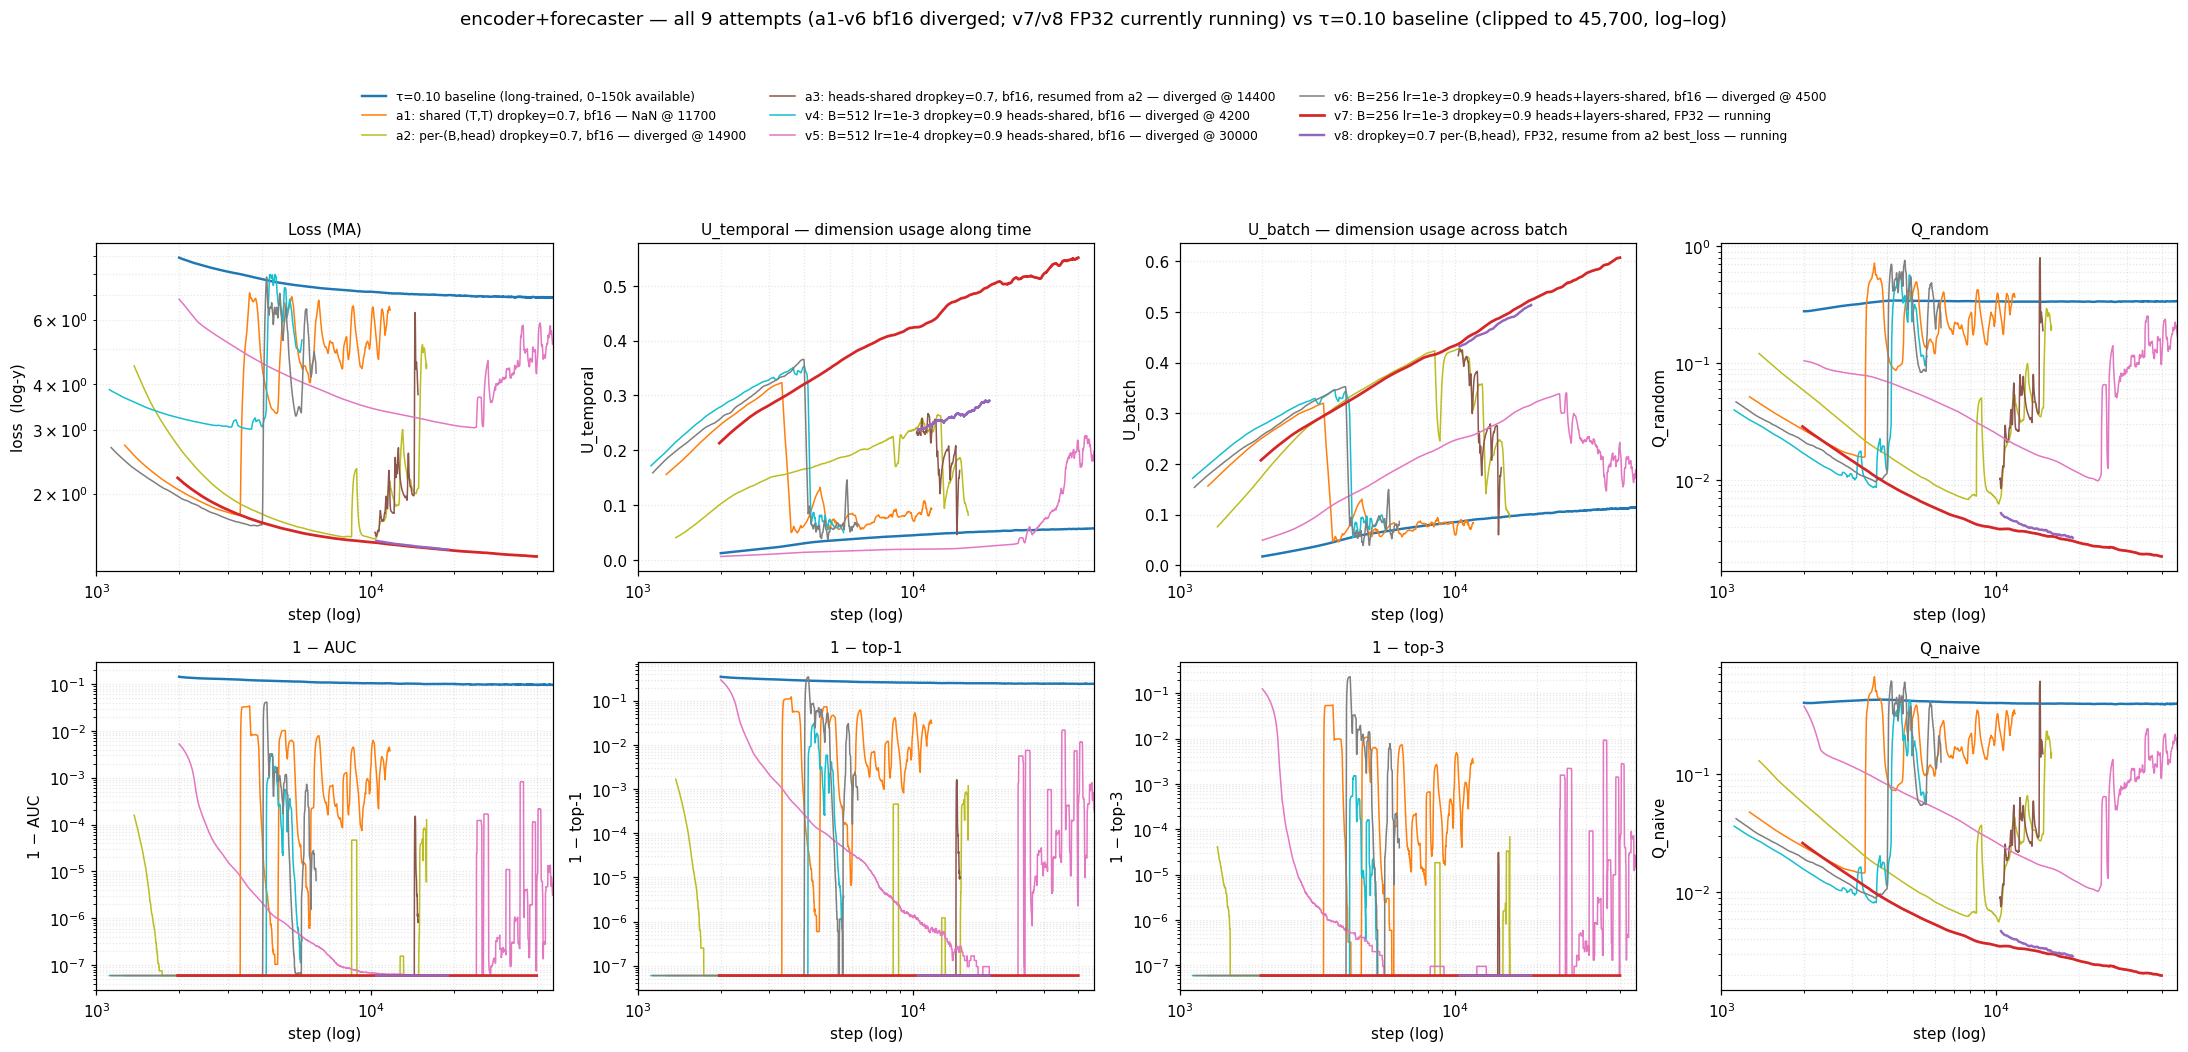
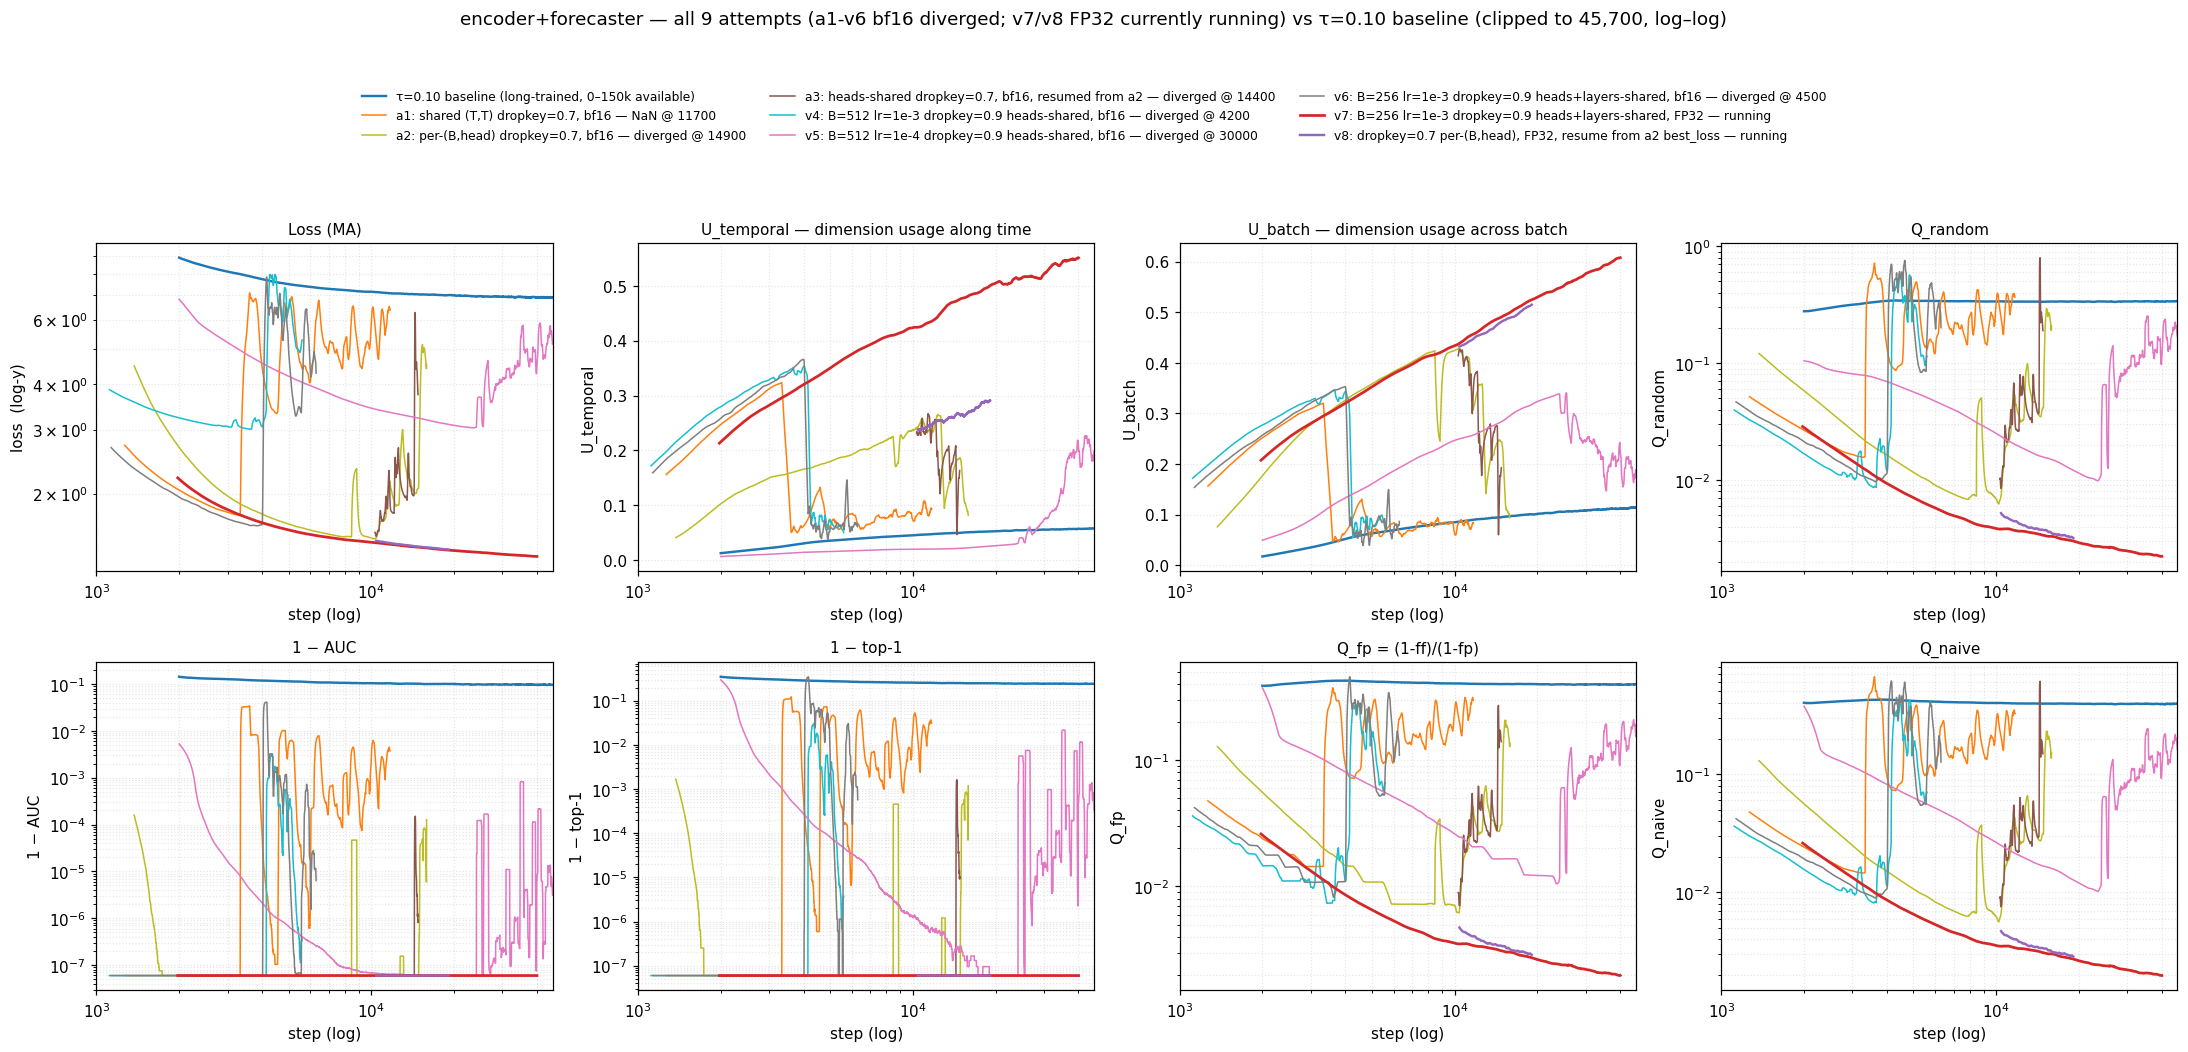
plot: add Q_fp = (1-ff)/(1-fp) panel (replaces 1-top3)
Q_fp is the ratio of (forecast→future error) over (forecast→past error).
Lower = forecast beats the past baseline by a larger margin. v7/v8 sit
near 0.002–0.003 (very strong gap); diverged bf16 arms hover at 0.06–0.31.

top3 dropped from the panel grid — highly correlated with top1 and missing
from baseline CSV anyway. Q_fp is novel info.

key Q_fp values (last_window_mean):
  baseline τ=0.10: 0.397
  a1: 0.310  a2: 0.140  a3: 0.151
  v4: 0.062  v5: 0.146  v6: 0.133
  v7: 0.002  v8: 0.003     ← FP32 runs, large gap-closure

Changed region(s): [[0.4973, 0.6084, 0.7459, 0.943]]

diff --git a/experiments/2026-05-11_exp_encoder_forecaster/scripts/plot_progress.py b/experiments/2026-05-11_exp_encoder_forecaster/scripts/plot_progress.py
@@ -5,31 +5,31 @@ Reads per-step training-batch metrics from the losses CSVs and renders a
 2x4 panel of trajectories smoothed with a moving average:
 
     loss                 |  U_temporal              |  U_batch                 |  R²_random / Q_random
-    1 - AUC              |  1 - top-1               |  1 - top-3               |  R²_naive  / Q_naive
+    1 - AUC              |  1 - top-1               |  Q_fp = (1-ff)/(1-fp)    |  R²_naive  / Q_naive
 
-`auc` / `top1` / `top3` are the canonical retrieval metrics: positive at
-lag 0 ranked against 12 negatives (4 same-sample temporal lags
-{1,2,4,8} + 8 cross-batch at the positive time). The baseline τ=0.10
-CSVs predate top-3 (only `auc` + `top1` were logged at the time), so
-the 1-top3 panel shows only the new arm.
+`auc` / `top1` are the canonical retrieval metrics: positive at lag 0
+ranked against 12 negatives (4 same-sample temporal lags {1,2,4,8} +
+8 cross-batch at the positive time).
 
 Two PNGs are produced in one call:
 
     plots/progress.png        — log-x on all panels; log-y on
-                                loss / 1-AUC / 1-top1 / 1-top3
+                                loss / 1-AUC / 1-top1 / Q_fp
     plots/progress_linear.png — same panels, linear x; linear y for
                                 loss / U_temporal / U_batch; the AUC /
-                                top-1 / top-3 panels still show `1-metric`
+                                top-1 panels still show `1-metric`
                                 (linear y) so small residuals near 1 are
-                                visible.
+                                visible. Q_fp is plotted directly (no
+                                1- transform; lower = better).
 
-Error-gap-closure is a derived metric:
-    egc = 1 - (1 - ff) / (1 - fp)
+Q_fp is a derived metric:
+    Q_fp = (1 - ff) / (1 - fp)
 where `ff` is the cosine similarity between forecast and future
 embeddings (positive pair) and `fp` is the cosine similarity between
-forecast and past embeddings (cross-batch reference). When fp < 1,
-egc=1 ⇒ perfect (ff=1), egc=0 ⇒ no improvement over fp, egc<0 ⇒ fp > ff.
-Guards: rows with fp ≥ 1 (denominator ≤ 0) are masked out of the plot.
+forecast and past embeddings (cross-batch reference). Q_fp ≈ 0 ⇒
+forecast much closer to future than past baseline (good), Q_fp ≈ 1 ⇒
+no improvement over fp, Q_fp > 1 ⇒ worse than past baseline. Lower is
+better. Guards: rows with fp ≥ 1 (denominator ≤ 0) are masked out.
 
 The τ=0.10 baseline is concatenated from multiple resume chunks
 (0–15k, 15k–24.5k, 24.5k–50k); on overlapping ranges the earliest
@@ -161,8 +161,8 @@ def load_traj(path: Path) -> dict | None:
             out[k] = np.full(len(rows), np.nan, dtype=np.float64)
     denom = 1.0 - out["fp"]
     with np.errstate(divide="ignore", invalid="ignore"):
-        egc = np.where(denom > 0, 1.0 - (1.0 - out["ff"]) / denom, np.nan)
-    out["egc"] = egc
+        q_fp = np.where(denom > 0, (1.0 - out["ff"]) / denom, np.nan)
+    out["q_fp"] = q_fp
     return out
 
 
@@ -195,8 +195,8 @@ def load_concat_traj(paths: list[Path]) -> dict | None:
             out[k] = np.full(len(merged), np.nan, dtype=np.float64)
     denom = 1.0 - out["fp"]
     with np.errstate(divide="ignore", invalid="ignore"):
-        egc = np.where(denom > 0, 1.0 - (1.0 - out["ff"]) / denom, np.nan)
-    out["egc"] = egc
+        q_fp = np.where(denom > 0, (1.0 - out["ff"]) / denom, np.nan)
+    out["q_fp"] = q_fp
     return out
 
 
@@ -266,7 +266,7 @@ def render_figure(traj, *, logx, logy_metrics, out_path, scale_tag, xmax,
 
     fig, axes = plt.subplots(2, 4, figsize=(20, 9))
     ax_loss, ax_ut, ax_ub, ax_r2r = axes[0]
-    ax_auc, ax_top1, ax_top3, ax_r2n = axes[1]
+    ax_auc, ax_top1, ax_qfp, ax_r2n = axes[1]
 
     plot_panel(ax_loss, traj, key="loss",
                ylabel="loss" + ("  (log-y)" if "loss" in logy_metrics else ""),
@@ -302,10 +302,10 @@ def render_figure(traj, *, logx, logy_metrics, out_path, scale_tag, xmax,
                panel_title="1 − top-1",
                transform=lambda y: 1.0 - y, logy="top1" in logy_metrics,
                logx=logx, xlim=xlim)
-    plot_panel(ax_top3, traj, key="top3",
-               ylabel="1 − top-3",
-               panel_title="1 − top-3",
-               transform=lambda y: 1.0 - y, logy="top3" in logy_metrics,
+    plot_panel(ax_qfp, traj, key="q_fp",
+               ylabel="Q_fp",
+               panel_title="Q_fp = (1-ff)/(1-fp)",
+               transform=None, logy="q_fp" in logy_metrics,
                logx=logx, xlim=xlim)
     plot_panel(ax_r2n, traj, key="r2_naive",
                ylabel="Q_naive" if r2n_log else "R²_naive",
@@ -398,14 +398,14 @@ def main() -> None:
                   f"r2_naive={last_window_mean(d['r2_naive']):.4f} "
                   f"auc={last_window_mean(d['auc']):.4f} "
                   f"top1={last_window_mean(d['top1']):.4f} "
-                  f"top3={last_window_mean(d['top3']):.4f}")
+                  f"q_fp={last_window_mean(d['q_fp']):.4f}")
 
     print(f"[plot] new-arm max = {new_arm_max}, baseline max = {baseline_max}; "
           f"xmax = min = {xmax}")
     print(f"[plot] xmax = {xmax}, xmin_log = {first_step}")
 
     render_figure(traj, logx=True,
-                  logy_metrics={"loss", "auc", "top1", "top3",
+                  logy_metrics={"loss", "auc", "top1", "q_fp",
                                 "r2_random", "r2_naive"},
                   out_path=OUT_LOG, scale_tag="log–log",
                   xmax=xmax, xmin_log=first_step)
